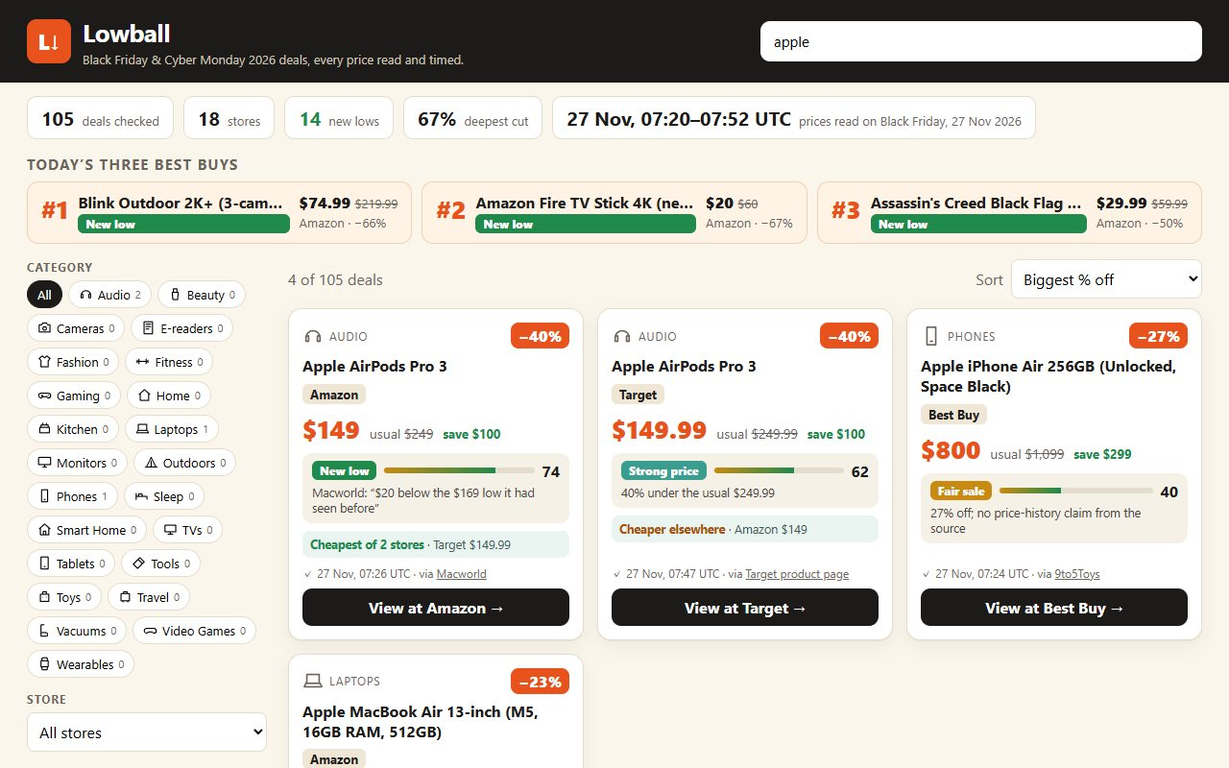
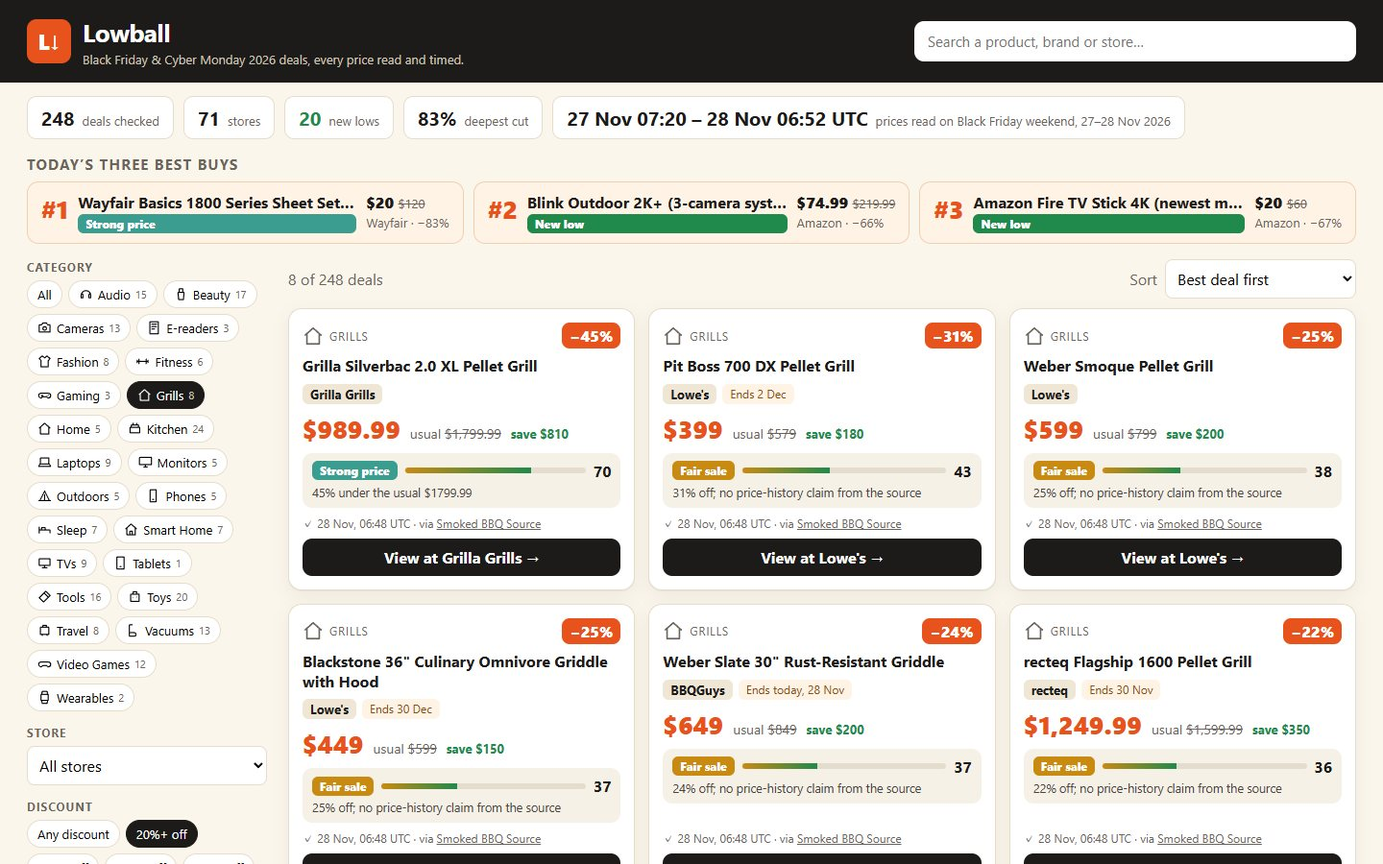
248 deals at 71 stores: 143 more read on Saturday 28 Nov, padded comparison prices flagged, two-day check range

diff --git a/app/js/deals-saturday.js b/app/js/deals-saturday.js
@@ -1,0 +1,210 @@
+// Saturday 28 November 2026: 143 more deals, read between 06:45 and 06:52 UTC on dated roundups (updated 27-28 Nov)
+// and store pages. Rows are compact: [product, brand, category, store, store link ('' when the source gave only its
+// own or a shortened link, so the card links to the source), sale price, usual price, source key, time read (UTC),
+// what the source said about the price's history, condition]. Where the usual price is the store's own comparison
+// value (Dell's "Estimated Value", Best Buy's "comparable value") the evidence says so, and the verdict marks it.
+
+const SOURCES = {
+  dell: ['https://www.dell.com/en-us/shop/deals', 'Dell deals page'],
+  dellLaptops: ['https://www.dell.com/en-us/shop/deals/laptop-deals', 'Dell laptop deals page'],
+  dellMonitors: ['https://www.dell.com/en-us/shop/deals/monitor-deals', 'Dell monitor deals page'],
+  bh: ['https://www.imaging-resource.com/deals/black-friday/bh-photo/', 'Imaging Resource'],
+  gearPatrol: ['https://www.gearpatrol.com/deals/best-black-friday-cyber-monday-weekend-sales-2026/', 'Gear Patrol'],
+  slickTv: ['https://daily.slickdeals.net/black-friday/the-best-black-friday-tv-deals-weve-spotted-so-far/', 'Slickdeals'],
+  toysYoga: ['https://9to5toys.com/2026/11/27/one-of-the-best-snapdragon-x2-plus-copilot-pc-black-friday-deals-at-700-off/', '9to5Toys'],
+  toysBestBuy: ['https://9to5toys.com/2026/11/27/best-buy-main-event-black-friday-sale-now-live/', '9to5Toys'],
+  toysWatch: ['https://9to5toys.com/2026/11/27/official-black-friday-apple-watch-deals/', '9to5Toys'],
+  pcGuide: ['https://www.pcguide.com/news/black-friday-deals-live-2026/', 'PC Guide'],
+  nbcVacuum: ['https://www.nbcnews.com/select/shopping/black-friday-vacuum-deals-2026-rcna610994', 'NBC Select'],
+  foodNetwork: ['https://www.foodnetwork.com/how-to/packages/shopping/sales-and-deals/best-black-friday-deals', 'Food Network'],
+  yahooHome: ['https://shopping.yahoo.com/deals/breaking-news/article/black-friday-home-deals-up-to-80-off-dyson-shark-ninja-ugg-and-more-123227868.html', 'Yahoo Shopping'],
+  popsciTools: ['https://www.popsci.com/gear/best-black-friday-power-tool-deals/', 'Popular Science'],
+  bbq: ['https://www.smokedbbqsource.com/black-friday-bbq-grill-deals/', 'Smoked BBQ Source'],
+  stonewars: ['https://stonewars.com/deals/lego-black-friday-2026/', 'Stonewars'],
+  nbcMain: ['https://www.nbcnews.com/select/shopping/best-black-friday-deals-11-27-2026-rcna611358', 'NBC Select'],
+  nbcUnder50: ['https://www.nbcnews.com/select/shopping/black-friday-2026-deals-under-50-rcna611475', 'NBC Select'],
+  toysGames: ['https://9to5toys.com/2026/11/27/ps5-switch-2-black-friday-game-deals-live/', '9to5Toys'],
+  nbcLuggage: ['https://www.nbcnews.com/select/shopping/black-friday-luggage-deals-2026-rcna610974', 'NBC Select'],
+};
+
+const DELL_EV = "Dell calls it the lowest price of the year, but the usual price is Dell's own comparison value";
+const DELL_CV = "usual price is Dell's own comparison value";
+const BBY_CV = "usual price is Best Buy's comparison value";
+
+const ROWS = [
+  // ---------------------------------------------------------------- laptops, monitors, phones, tablets
+  ['Dell 14S Laptop (Core 5 320, 8GB, 512GB SSD, 14" FHD+)', 'Dell', 'Laptops', 'Dell', 'https://www.dell.com/en-us/shop/laptop-computers/spd/dell14sds14270/ds14270_so_14', 499.99, 749.99, 'dell', '06:49', DELL_EV, ''],
+  ['Dell XPS 13 Laptop (Core 5 320, 8GB, 256GB SSD, 13.4" QHD+ touch)', 'Dell', 'Laptops', 'Dell', 'https://www.dell.com/en-us/shop/laptop-computers/spd/xps13dx13260/dx13260_so_42', 549.99, 749.99, 'dell', '06:49', DELL_EV, ''],
+  ['Dell 16 Plus Laptop (Core Ultra 7 258V, 32GB, 1TB SSD, 16" QHD+)', 'Dell', 'Laptops', 'Dell', 'https://www.dell.com/en-us/shop/laptop-computers/spd/dellplus16laptopdb16250/db16250_fixed_13', 1199.99, 2079.99, 'dellLaptops', '06:50', DELL_EV, ''],
+  ['Lenovo Yoga Slim 7x Copilot+ PC (Snapdragon X2 Plus, 16GB, 1TB, 2K touch)', 'Lenovo', 'Laptops', 'Lenovo', '', 799.99, 1500, 'toysYoga', '06:48', 'the lowest price we have tracked for this particular model', ''],
+  ['Dell 22 Monitor SE2225HM', 'Dell', 'Monitors', 'Dell', 'https://www.dell.com/en-us/shop/monitors/apd/dell-22-monitor-se2225hm/se2225hm/-', 49.99, 89.99, 'dellMonitors', '06:49', DELL_CV, ''],
+  ['Dell 24 240Hz Monitor SE2426HGS', 'Dell', 'Monitors', 'Dell', 'https://www.dell.com/en-us/shop/monitors/apd/dell-24-240hz-adjustable-stand-monitor-se2426hgs/se2426hgs/-', 99.99, 139.99, 'dellMonitors', '06:49', DELL_CV, 'Half off this monitor with any PC purchase'],
+  ['Alienware 32 4K OLED Gaming Monitor AW3226Q', 'Alienware', 'Monitors', 'Dell', 'https://www.dell.com/en-us/shop/monitors/apd/alienware-32-4k-oled-gaming-monitor-aw3226q/aw3226q_monitor/-', 549.99, 699.99, 'dellMonitors', '06:49', DELL_CV, ''],
+  ['Alienware 39 5K OLED Gaming Monitor AW3926QW', 'Alienware', 'Monitors', 'Dell', 'https://www.dell.com/en-us/shop/monitors/apd/alienware-39-5k-oled-gaming-monitor-aw3926qw/aw3926qw/-', 999.99, 1099.99, 'dellMonitors', '06:49', DELL_CV, ''],
+  ['Apple iPhone Air 256GB', 'Apple', 'Phones', 'Best Buy', '', 800, 1099, 'toysBestBuy', '06:48', '', ''],
+  ['Apple Watch Series 12 42mm GPS', 'Apple', 'Wearables', 'Amazon', '', 299, 399, 'toysWatch', '06:52', 'All-time low', ''],
+  ['Nintendo Switch 2 + Mario Kart World bundle', 'Nintendo', 'Gaming', 'Amazon', 'https://www.amazon.com/dp/B0HGHB3V16', 499, 549.99, 'pcGuide', '06:45', '', ''],
+  ['Google Home Speaker (2026)', 'Google', 'Smart Home', 'Best Buy', '', 80, 100, 'toysBestBuy', '06:48', 'All-time low', ''],
+
+  // ---------------------------------------------------------------- TVs
+  ['Hisense 100" QD7 Hi-QLED 4K TV', 'Hisense', 'TVs', 'Costco', 'https://slickdeals.net/f/20194830', 999.99, 1699.99, 'slickTv', '06:51', '', 'Costco membership; through 30 Nov'],
+  ['Samsung 70" U8000H 4K TV', 'Samsung', 'TVs', "Sam's Club", 'https://slickdeals.net/f/20223603', 367.99, 397.99, 'slickTv', '06:51', '', "Sam's Club member price"],
+  ['Hisense 65" UR8 RGB Mini-LED TV', 'Hisense', 'TVs', 'Best Buy', 'https://slickdeals.net/f/20317722', 899.99, 1999.99, 'slickTv', '06:51', BBY_CV, ''],
+  ['LG 77" B6E OLED TV', 'LG', 'TVs', 'Best Buy', 'https://slickdeals.net/f/20276079', 1499.99, 2699.99, 'slickTv', '06:51', BBY_CV, ''],
+
+  // ---------------------------------------------------------------- cameras at B&H
+  ['Nikon Z5 Mirrorless Camera, Basic Bundle', 'Nikon', 'Cameras', 'B&H Photo', 'https://www.bhphotovideo.com/c/product/1735896-REG/nikon_z5_mirrorless_camera_with.html', 796.95, 1450.95, 'bh', '06:50', '', ''],
+  ['Canon EOS RP Mirrorless Camera', 'Canon', 'Cameras', 'B&H Photo', 'https://www.bhphotovideo.com/c/product/1459282-REG/canon_eos_rp_mirrorless_digital.html', 699, 1149, 'bh', '06:50', '', ''],
+  ['Nikon D7500 DSLR with 18-140mm Lens', 'Nikon', 'Cameras', 'B&H Photo', 'https://www.bhphotovideo.com/c/product/1333200-REG/nikon_d7500_dslr_camera_with.html', 996.95, 1496.95, 'bh', '06:50', '', ''],
+  ['Panasonic LUMIX GH5 II Mirrorless Camera', 'Panasonic', 'Cameras', 'B&H Photo', 'https://www.bhphotovideo.com/c/product/1639337-REG/panasonic_dc_gh5m2body_lumix_gh5_ii_mirrorless.html', 997.99, 1497.99, 'bh', '06:50', '', ''],
+  ['Sony a7 III Mirrorless Camera', 'Sony', 'Cameras', 'B&H Photo', 'https://www.bhphotovideo.com/c/product/1394217-REG/sony_ilce_7m3_alpha_a7_iii_mirrorless.html', 1398, 1998, 'bh', '06:50', '', ''],
+  ['Canon EOS R5 Mirrorless Camera', 'Canon', 'Cameras', 'B&H Photo', 'https://www.bhphotovideo.com/c/product/1547009-REG/canon_4147c002_eos_r5_mirrorless_camera.html', 2399, 3299, 'bh', '06:50', '', ''],
+  ['Nikon Z8 Mirrorless Camera', 'Nikon', 'Cameras', 'B&H Photo', 'https://www.bhphotovideo.com/c/product/1765622-REG/nikon_z8_mirrorless_camera.html', 3196.95, 4296.95, 'bh', '06:50', '', 'Ends Sun 29 Nov, 11:59pm ET'],
+  ['Nikon Z6 III Mirrorless Camera', 'Nikon', 'Cameras', 'B&H Photo', 'https://www.bhphotovideo.com/c/product/1834803-REG/nikon_z6_iii_mirrorless_camera.html', 1996.95, 2696.95, 'bh', '06:50', '', ''],
+  ['Panasonic LUMIX G9 II Mirrorless Camera', 'Panasonic', 'Cameras', 'B&H Photo', 'https://www.bhphotovideo.com/c/product/1945155-REG/panasonic_dc_g9m2body9_lumix_g9_ii_mirrorless.html', 1397.99, 1897.99, 'bh', '06:50', '', ''],
+  ['Panasonic LUMIX S9 with 18-40mm Lens', 'Panasonic', 'Cameras', 'B&H Photo', 'https://www.bhphotovideo.com/c/product/1944584-REG/panasonic_dc_s9nsb9_lumix_s9_mirrorless_camera.html', 1347.99, 1797.99, 'bh', '06:50', '', 'Black/Silver'],
+  ['Panasonic LUMIX G97 with 12-60mm Lens', 'Panasonic', 'Cameras', 'B&H Photo', 'https://www.bhphotovideo.com/c/product/1936326-REG/panasonic_dc_g97mk9_panasonic_lumix_g97_mirrorless.html', 547.99, 847.99, 'bh', '06:50', '', ''],
+  ['Nikon NIKKOR Z 28-400mm f/4-8 VR Lens', 'Nikon', 'Cameras', 'B&H Photo', 'https://www.bhphotovideo.com/c/product/1818948-REG/nikon_nikkor_z_28_400mm_f_4_8.html', 996.95, 1446.95, 'bh', '06:50', '', ''],
+  ['SanDisk 128GB Extreme PRO UHS-II SDXC Card', 'SanDisk', 'Cameras', 'B&H Photo', 'https://www.bhphotovideo.com/c/product/1965475-REG/sandisk_sdsdxde_128g_gn4in_128gb_extreme_pro_uhs_ii.html', 229.99, 418.99, 'bh', '06:50', '', ''],
+
+  // ---------------------------------------------------------------- audio at the makers' own stores
+  ['Sonos Play portable speaker', 'Sonos', 'Audio', 'Sonos', 'https://www.sonos.com/en-us/shop/sonos-play', 239, 299, 'gearPatrol', '06:47', '', ''],
+  ['Sonos Five', 'Sonos', 'Audio', 'Sonos', 'https://www.sonos.com/en-us/shop/five.html', 439, 599, 'gearPatrol', '06:47', '', ''],
+  ['Sonos Arc Ultra soundbar', 'Sonos', 'Audio', 'Sonos', 'https://www.sonos.com/en-us/shop/arc-ultra', 849, 1099, 'gearPatrol', '06:47', '', ''],
+  ['Sonos Era 300', 'Sonos', 'Audio', 'Sonos', 'https://www.sonos.com/en-us/shop/era-300', 399, 449, 'gearPatrol', '06:47', '', ''],
+  ['Audioengine A2+ Gen 3 wireless speakers', 'Audioengine', 'Audio', 'Audioengine', 'https://audioengine.com/shop/wirelessspeakers/a2-wireless-computer-speakers/', 233, 299, 'gearPatrol', '06:47', '', ''],
+  ['Bose Lifestyle Ultra Speaker', 'Bose', 'Audio', 'Bose', 'https://www.bose.com/p/speakers/bose-lifestyle-ultra-speaker/LSULT-SPEAKERWIRELESS.html', 299, 349, 'gearPatrol', '06:47', '', ''],
+  ['KEF LS50 Wireless II', 'KEF', 'Audio', 'KEF', 'https://us.kef.com/products/ls50-wireless-2', 2199, 2999, 'gearPatrol', '06:47', '', ''],
+  ['KEF Q1 Meta bookshelf speakers', 'KEF', 'Audio', 'KEF', 'https://us.kef.com/products/q1-meta', 400, 700, 'gearPatrol', '06:47', '', ''],
+  ['Klipsch The Fives II powered speakers', 'Klipsch', 'Audio', 'Klipsch', 'https://www.klipsch.com/products/the-fives-ii-powered-speakers', 900, 1400, 'gearPatrol', '06:47', '', ''],
+  ['Klipsch The Nines II powered speakers', 'Klipsch', 'Audio', 'Klipsch', 'https://www.klipsch.com/products/the-nines-ii-powered-speakers', 1550, 2400, 'gearPatrol', '06:47', '', ''],
+  ['JBL Flip 7 Bluetooth speaker', 'JBL', 'Audio', 'JBL', 'https://www.jbl.com/bluetooth-speakers/FLIP-7.html', 100, 150, 'gearPatrol', '06:47', '', ''],
+  ['Marshall Stanmore III Bluetooth Home Speaker', 'Marshall', 'Audio', 'Best Buy', '', 250, 400, 'toysBestBuy', '06:48', '', ''],
+
+  // ---------------------------------------------------------------- vacuums
+  ['Shark Pet Cordless Stick Vacuum IX141', 'Shark', 'Vacuums', 'Home Depot', 'https://www.homedepot.com/p/Shark-Pet-Bagless-Cordless-Washable-Filter-Stick-Vacuum-XL-Dust-Cup-LED-Lights-Removable-Handheld-40min-Runtime-in-Gray-IX141/313118436', 169, 299, 'nbcVacuum', '06:45', '', ''],
+  ['Dyson V15 Detect Cordless Pet Stick Vacuum', 'Dyson', 'Vacuums', "Lowe's", 'https://www.lowes.com/pd/Dyson-V15-Cordless-Pet-Stick-Vacuum-Convertible-To-Handheld/5014724771', 599.99, 849.99, 'nbcVacuum', '06:45', '', ''],
+  ['Roborock Q7 M5+ Robot Vacuum and Mop', 'Roborock', 'Vacuums', 'Roborock', 'https://us.roborock.com/products/roborock-q7-m5-plus', 199.99, 429.99, 'nbcVacuum', '06:45', 'lowest price ever', ''],
+  ['Levoit LVAC-200 Cordless Vacuum', 'Levoit', 'Vacuums', 'Levoit', 'https://levoit.com/collections/vacuums/products/lvac-200-cordless-vacuum', 139.99, 199.99, 'nbcVacuum', '06:45', '', ''],
+  ['Tineco Floor One S7 Stretch Ultra Wet/Dry Vacuum', 'Tineco', 'Vacuums', 'Tineco', 'https://store.tineco.com/products/tineco-floor-one-s7-stretch-ultra-cordless-wet-dry-vacuum-cleaner?variant=42055975305300', 299, 599, 'nbcVacuum', '06:45', '', ''],
+  ['Bissell PowerClean FurGuard Pet Cordless Stick Vacuum', 'Bissell', 'Vacuums', 'Bissell', 'https://www.bissell.com/en-us/product/powerclean-furguard-cordless-stick-vacuum-4039.html', 189.99, 299.99, 'nbcVacuum', '06:45', '', ''],
+  ['Shark Rocket Ultra-Light Corded Stick Vacuum HV301', 'Shark', 'Vacuums', 'Chewy', 'https://www.chewy.com/shark-hv301-rocket-ultra-light-weight/dp/1351038', 99.99, 199.99, 'nbcVacuum', '06:45', '', ''],
+  ['Shark Vertex Pro Cordless Vacuum', 'Shark', 'Vacuums', 'Amazon', 'https://www.amazon.com/dp/B098RH3LTB', 249.99, 379.99, 'nbcVacuum', '06:45', '', ''],
+
+  // ---------------------------------------------------------------- kitchen
+  ['Vitamix Explorian 2.0 Blender with accessories', 'Vitamix', 'Kitchen', 'QVC', 'https://www.qvc.com/vitamix-explorian-20-variable-speed-blender-w-accessories.product.K92777.html', 279.98, 379, 'foodNetwork', '06:47', '', ''],
+  ['Made In 3-Piece Olive Wood Knife Set', 'Made In', 'Kitchen', 'Made In', 'https://madeincookware.com/products/the-knife-set/olive-wood', 329.99, 477, 'foodNetwork', '06:47', '', ''],
+  ['Caraway Ceramic Cookware Set', 'Caraway', 'Kitchen', 'Caraway', 'https://www.carawayhome.com/products/cookware-sets/?color=cream', 356, 675, 'foodNetwork', '06:47', '', 'Cream'],
+  ['Le Creuset Heritage 4-Qt Round Oven', 'Le Creuset', 'Kitchen', 'QVC', 'https://www.qvc.com/le-creuset-heritage-4-qt-enameled-cast-iron-round-oven-w-lid.product.K314055.html', 169.98, 302, 'foodNetwork', '06:47', '', ''],
+  ['Le Creuset Signature Sauteuse, 3.5 qt', 'Le Creuset', 'Kitchen', 'Le Creuset', 'https://www.lecreuset.com/signature-sauteuse-3-1-2-qt/21198US.html', 250, 375, 'yahooHome', '06:47', '', ''],
+  ['GreenPan Valencia Pro 3-Frypan Set (8/9.5/11")', 'GreenPan', 'Kitchen', 'GreenPan', 'https://www.greenpan.us/collections/valencia/products/valencia-pro-ceramic-nonstick-8-9-5-and-11-frypan-set-gray-1', 99.99, 259.99, 'foodNetwork', '06:47', '', ''],
+  ['Rachael Ray Cucina 10-Piece Bakeware Set', 'Rachael Ray', 'Kitchen', 'Wayfair', 'https://www.wayfair.com/kitchen-tabletop/pdp/rachael-ray-cucina-nonstick-bakeware-baking-pans-set-10-piece-latte-brown-and-cranberry-red-rry3568.html', 134.99, 220, 'foodNetwork', '06:47', '', ''],
+  ['Staub Sesame 3-Piece Baking Dish Set', 'Staub', 'Kitchen', 'Crate & Barrel', 'https://www.crateandbarrel.com/staub-sesame-3-piece-rectangular-baking-dish-set/s524503', 99, 190, 'foodNetwork', '06:47', '', ''],
+  ['KitchenAid Artisan Stand Mixer', 'KitchenAid', 'Kitchen', 'Williams Sonoma', 'https://www.williams-sonoma.com/products/kitchenaid-artisan-stand-mixer/', 349.95, 449.95, 'foodNetwork', '06:47', '', ''],
+  ['GE Profile Opal 2.0 Ultra Nugget Ice Maker', 'GE Profile', 'Kitchen', 'GE Appliances', 'https://www.geappliances.com/appliance/GE-Profile-Opal-2-0-Ultra-Nugget-Ice-Maker-with-Scale-Inhibiting-Filter-XPIO23SWSS', 349, 449, 'foodNetwork', '06:47', '', ''],
+  ['Cuisinart Custom 14-Cup Food Processor', 'Cuisinart', 'Kitchen', 'Crate & Barrel', 'https://www.crateandbarrel.com/cuisinart-custom-14-stainless-steel-14-cup-food-processor/s146663', 199.95, 299.95, 'foodNetwork', '06:47', '', ''],
+  ['Zwilling Four Star 7-Piece Knife Block Set', 'Zwilling', 'Kitchen', 'Williams Sonoma', 'https://www.williams-sonoma.com/products/zwilling-four-star-eco-knife-block-natural-birch-set-of-7', 199.95, 399.95, 'foodNetwork', '06:47', '', ''],
+  ['Lenox Spice Village 24-Piece Jar Collection', 'Lenox', 'Kitchen', "Macy's", 'https://www.macys.com/shop/product/lenox-spice-village-24-pc.-jar-collection-firstmacys?ID=19236529', 208.99, 299, 'foodNetwork', '06:47', '', ''],
+
+  // ---------------------------------------------------------------- sleep and home
+  ['Wayfair Basics 1800 Series Sheet Set, Queen', 'Wayfair Basics', 'Sleep', 'Wayfair', 'https://www.wayfair.com/bed-bath/pdp/wayfair-basics-1800-series-sheet-set-wfbs1741.html', 20, 120, 'yahooHome', '06:47', '', ''],
+  ['Cozy Earth Bamboo Sheet Set, Queen', 'Cozy Earth', 'Sleep', 'Cozy Earth', 'https://cozyearth.com/products/bamboo-sheet-set?variant=42387774275764', 194, 324, 'yahooHome', '06:47', '', ''],
+  ['Brooklinen All-Season Down Alternative Comforter, Queen', 'Brooklinen', 'Sleep', 'Brooklinen', 'https://www.brooklinen.com/products/down-alternative-comforter?variant=42723524214874', 217, 289, 'yahooHome', '06:47', '', ''],
+  ['Nectar Classic Memory Foam Mattress, Queen', 'Nectar', 'Sleep', 'Nectar', 'https://www.nectarsleep.com/mattress', 699, 1567, 'yahooHome', '06:47', '', ''],
+  ['Cocoon by Sealy Chill Mattress, Queen', 'Cocoon by Sealy', 'Sleep', 'Cocoon by Sealy', 'https://www.cocoonbysealy.com/mattress/the-chill-mattress/v/126/', 597, 919, 'yahooHome', '06:47', '', 'Code Cocoon35'],
+  ['Bear Elite Hybrid Mattress, Queen', 'Bear', 'Sleep', 'Bear', 'https://www.bearmattress.com/products/elite-hybrid-mattress', 1671, 2570, 'yahooHome', '06:47', '', 'Code BF35'],
+  ['Lola Blankets Faux Fur Original Blanket (Creamy Cloud)', 'Lola Blankets', 'Home', 'Lola Blankets', 'https://lolablankets.com/products/creamy-cloud?variant=41683293438123', 163, 325, 'yahooHome', '06:47', '', 'Code BF50'],
+  ['HaiiMeid Van Gogh Abstract Area Rug, 8 x 10 ft', 'HaiiMeid', 'Home', 'Home Depot', 'https://www.homedepot.com/p/HaiiMeid-Van-Gogh-8-ft-x-10-ft-Beige-Grey-Modern-Abstract-Area-Rug-X24IU0057H-281/333291096', 119, 227, 'yahooHome', '06:47', '', ''],
+  ['Teko Hover Scrubber Cordless Mop', 'Teko', 'Home', 'QVC', 'https://www.qvc.com/p/teko-hover-scrubber-electric-indooroutdoor-cordless-mop/V90537', 50, 75, 'yahooHome', '06:47', '', ''],
+
+  // ---------------------------------------------------------------- tools
+  ['DeWalt Atomic 20V Max 2-Tool Combo Kit (DCK225D2)', 'DeWalt', 'Tools', 'Home Depot', 'https://www.homedepot.com/p/322138483', 149, 249, 'popsciTools', '06:46', '', ''],
+  ['Milwaukee M18 Brushless 1/2" Compact Drill Kit (3601-21P)', 'Milwaukee', 'Tools', 'Home Depot', 'https://www.homedepot.com/p/325479354', 99, 199, 'popsciTools', '06:46', '', ''],
+  ['Milwaukee M18 9-Tool Combo Kit (3692-29)', 'Milwaukee', 'Tools', 'Home Depot', 'https://www.homedepot.com/p/343077421', 699, 1389, 'popsciTools', '06:46', '', ''],
+  ['Ryobi ONE+ 18V 6-Tool Combo Kit (PCL1600K2)', 'Ryobi', 'Tools', 'Home Depot', 'https://www.homedepot.com/p/317987591', 199, 299, 'popsciTools', '06:46', '', ''],
+  ['Husky 310-Piece Mechanics Tool Set (H310MTS)', 'Husky', 'Tools', 'Home Depot', 'https://www.homedepot.com/p/341370940', 99, 199, 'popsciTools', '06:46', '', ''],
+  ['Bosch 50-ft Self-Leveling Cross-Line Laser (GLL50-20)', 'Bosch', 'Tools', 'Home Depot', 'https://www.homedepot.com/p/327671498', 49.97, 95, 'popsciTools', '06:46', '', ''],
+  ['Kobalt 24V Brushless Drill and Impact Driver Kit', 'Kobalt', 'Tools', "Lowe's", 'https://www.lowes.com/pd/Kobalt-2-Tool-Brushless-Power-Tool-Combo-Kit-1-Batteries-Included-and-Charger-Included/5019790397', 79, 149, 'popsciTools', '06:46', '', ''],
+  ['DeWalt 12" Double-Bevel Sliding Miter Saw (DWS780)', 'DeWalt', 'Tools', "Lowe's", 'https://www.lowes.com/pd/DEWALT-12-in-15-Amps-Amp-Dual-Bevel-Sliding-Compound-Corded-Miter-Saw/5013817811', 399, 649, 'popsciTools', '06:46', '', ''],
+  ['Craftsman Versastack 242-Piece Mechanics Tool Set', 'Craftsman', 'Tools', "Lowe's", 'https://www.lowes.com/pd/CRAFTSMAN-24Pc-VERSASTACK-Mechanics-Tool-Set/5016365155', 99, 229, 'popsciTools', '06:46', '', ''],
+  ['Shop-Vac 16-Gallon 6.5 HP Wet/Dry Vacuum', 'Shop-Vac', 'Tools', "Lowe's", 'https://www.lowes.com/pd/Shop-Vac-16-Gallon-Corded-Portable-Wet-Dry-Shop-Vacuum/5013296515', 69.98, 139, 'popsciTools', '06:46', '', ''],
+  ['Kobalt 46" 9-Drawer Rolling Workbench', 'Kobalt', 'Tools', "Lowe's", 'https://www.lowes.com/pd/Kobalt-46-1-in-L-x-37-2-in-H-9-Drawers-Rolling-Black-Wood-Work-Bench/5013467719', 298, 498, 'popsciTools', '06:46', '', ''],
+  ['Bosch Profactor 18V 12" Glide Miter Saw (tool only)', 'Bosch', 'Tools', "Lowe's", 'https://www.lowes.com/pd/Bosch-PROFACTOR-18V-Surgeon-12-In-Dual-Bevel-Glide-Miter-Saw-Bare-Tool/5001905741', 479.99, 849, 'popsciTools', '06:46', '', ''],
+
+  // ---------------------------------------------------------------- grills, griddles, pizza ovens, fire pits
+  ['Pit Boss 700 DX Pellet Grill', 'Pit Boss', 'Grills', "Lowe's", '', 399, 579, 'bbq', '06:48', '', 'Ends 2 Dec'],
+  ['Traeger Woodridge Pro Pellet Grill', 'Traeger', 'Grills', "Lowe's", '', 999, 1149.99, 'bbq', '06:48', '', ''],
+  ['Weber Smoque Pellet Grill', 'Weber', 'Grills', "Lowe's", '', 599, 799, 'bbq', '06:48', '', ''],
+  ['Weber Genesis E-315 Gas Grill', 'Weber', 'Grills', "Lowe's", '', 799, 899, 'bbq', '06:48', '', 'Ends 2 Dec'],
+  ['Blackstone 36" Culinary Omnivore Griddle with Hood', 'Blackstone', 'Grills', "Lowe's", '', 449, 599, 'bbq', '06:48', '', 'Ends 30 Dec'],
+  ['Blackstone 36" Griddle Starter Bundle', 'Blackstone', 'Grills', 'Blackstone', 'https://blackstoneproducts.com/products/36-starter-bundle', 549, 688.98, 'foodNetwork', '06:47', '', ''],
+  ['recteq Flagship 1600 Pellet Grill', 'recteq', 'Grills', 'recteq', '', 1249.99, 1599.99, 'bbq', '06:48', '', 'Ends 30 Nov'],
+  ['Grilla Silverbac 2.0 XL Pellet Grill', 'Grilla', 'Grills', 'Grilla Grills', 'https://www.grillagrills.com/product/4001313', 989.99, 1799.99, 'bbq', '06:48', '', ''],
+  ['Traeger Flatrock 3-Burner Griddle', 'Traeger', 'Grills', 'Ace Hardware', '', 799, 999.99, 'bbq', '06:48', '', ''],
+  ['Weber Slate 30" Rust-Resistant Griddle', 'Weber', 'Grills', 'BBQGuys', 'https://www.bbqguys.com/i/3193451/weber-grills/slate-30-rust-resistant-griddle', 649, 849, 'bbq', '06:48', '', 'Ends today, 28 Nov'],
+  ['Kamado Joe Classic Joe II 18" Ceramic Grill', 'Kamado Joe', 'Grills', 'Amazon', '', 1249, 1499.99, 'bbq', '06:48', 'at a 30-day low on Amazon', ''],
+  ['Ooni Karu 12 Multi-Fuel Pizza Oven', 'Ooni', 'Outdoors', 'Ooni', 'https://ooni.com/products/ooni-karu', 249, 349, 'foodNetwork', '06:47', '', ''],
+  ['Ooni Koda 12 Propane Pizza Oven', 'Ooni', 'Outdoors', "Lowe's", '', 300.3, 429, 'bbq', '06:48', '', 'Ends 30 Nov'],
+  ['Gozney Roccbox Pizza Oven', 'Gozney', 'Outdoors', 'Gozney', 'https://us.gozney.com/products/roccbox', 399.99, 499.99, 'bbq', '06:48', '', ''],
+  ['Solo Stove Pi Prime Propane Pizza Oven', 'Solo Stove', 'Outdoors', 'Amazon', '', 299.99, 399.99, 'bbq', '06:48', 'at its lowest price in a year on Amazon', ''],
+  ['Solo Stove Bonfire 19.5" Fire Pit with Stand', 'Solo Stove', 'Outdoors', 'Amazon', '', 282.14, 349.99, 'bbq', '06:48', 'at a 90-day low on Amazon', ''],
+
+  // ---------------------------------------------------------------- LEGO and toys
+  ['LEGO Star Wars Wicket the Ewok (75430)', 'LEGO', 'Toys', 'LEGO', '', 103.99, 129.99, 'stonewars', '06:46', '', 'While supplies last'],
+  ['LEGO Icons Flower Arrangement (10345)', 'LEGO', 'Toys', 'LEGO', '', 76.99, 109.99, 'stonewars', '06:46', '', 'While supplies last'],
+  ['LEGO Harry Potter Diagon Alley Wizarding Shops (76444)', 'LEGO', 'Toys', 'LEGO', '', 159.99, 199.99, 'stonewars', '06:46', '', 'While supplies last'],
+  ['LEGO Star Wars AT-ST Walker (75417)', 'LEGO', 'Toys', 'LEGO', '', 159.99, 199.99, 'stonewars', '06:46', '', 'While supplies last'],
+  ['LEGO Williams Racing FW14B & Nigel Mansell (10353)', 'LEGO', 'Toys', 'LEGO', '', 47.99, 79.99, 'stonewars', '06:46', '', 'While supplies last'],
+  ["LEGO Bluey's Family House with Memory Game (10459)", 'LEGO', 'Toys', 'LEGO', '', 41.99, 69.99, 'stonewars', '06:46', '', 'While supplies last'],
+  ['LEGO Disney Kakamora Barge (43258)', 'LEGO', 'Toys', 'LEGO', '', 59.99, 99.99, 'stonewars', '06:46', '', 'While supplies last'],
+  ['LEGO Technic Volvo L120 Electric Wheel Loader (42209)', 'LEGO', 'Toys', 'LEGO', '', 71.99, 119.99, 'stonewars', '06:46', '', 'While supplies last'],
+  ['LEGO Harry Potter Enchanted Flying Ford Anglia (76470)', 'LEGO', 'Toys', 'LEGO', '', 55.99, 79.99, 'stonewars', '06:46', '', 'While supplies last'],
+  ['Toniebox 2 Starter Set (Bluey)', 'Tonies', 'Toys', "Macy's", 'https://www.macys.com/shop/product/tonies-bluey-toniebox-2-screen-free-interactive-starter-set-ages-1?ID=27115185', 99.99, 149.99, 'nbcMain', '06:48', '', ''],
+  ['PicassoTiles 100-Piece Magnetic Tiles', 'PicassoTiles', 'Toys', 'Amazon', 'https://www.amazon.com/dp/B00AU56C5W', 27.99, 39.99, 'nbcUnder50', '06:48', '', ''],
+  ['3Doodler Start+ Essentials 3D Pen Set', '3Doodler', 'Toys', 'Amazon', 'https://www.amazon.com/dp/B086JQQHPK', 39.99, 52.81, 'nbcUnder50', '06:48', '', ''],
+
+  // ---------------------------------------------------------------- video games
+  ["Assassin's Creed Black Flag Resynced (PS5)", 'Ubisoft', 'Video Games', 'Amazon', 'https://www.amazon.com/dp/B0GY5YZC4P', 30, 60, 'toysGames', '06:46', 'All-time low', ''],
+  ['Donkey Kong Bananza (Switch 2)', 'Nintendo', 'Video Games', 'Amazon', '', 49, 70, 'toysGames', '06:46', '', ''],
+  ['Metroid Prime 4: Beyond, Switch 2 Edition', 'Nintendo', 'Video Games', 'Amazon', '', 49, 70, 'toysGames', '06:46', '', ''],
+  ['Kirby Air Riders (Switch 2)', 'Nintendo', 'Video Games', 'Amazon', '', 50, 70, 'toysGames', '06:46', '', ''],
+  ["Marvel's Spider-Man 2 (PS5)", 'Sony', 'Video Games', 'Amazon', 'https://www.amazon.com/dp/B0C7WQRCPB', 30, 70, 'toysGames', '06:46', '', ''],
+  ["Ghost of Tsushima Director's Cut (PS5)", 'Sony', 'Video Games', 'Amazon', 'https://www.amazon.com/dp/B098G34GBT', 30, 70, 'toysGames', '06:46', '', ''],
+
+  // ---------------------------------------------------------------- travel
+  ['Away The Carry-On Hardside Spinner', 'Away', 'Travel', 'Away', 'https://www.awaytravel.com/products/carry-on-coast-blue', 206, 275, 'nbcLuggage', '06:47', '', 'Coast Blue'],
+  ['Away The Large Checked 29" Spinner', 'Away', 'Travel', 'Away', 'https://www.awaytravel.com/products/large-blush-pink', 281, 375, 'nbcLuggage', '06:47', '', 'Blush Pink'],
+  ['Travelpro Maxlite 5 International Carry-On Spinner', 'Travelpro', 'Travel', 'Travelpro', 'https://travelpro.com/products/maxlite%C2%AE-5-international-expandable-carry-on-spinner', 110, 160, 'nbcLuggage', '06:47', '', ''],
+  ['SwissGear Sion Reserve Medium Checked Spinner', 'SwissGear', 'Travel', 'SwissGear', 'https://www.swissgear.com/products/sion-reserve-medium-checked-spinner', 82.5, 165, 'nbcLuggage', '06:47', '', ''],
+  ['adidas Defender 5 Medium Duffel Bag', 'adidas', 'Travel', 'adidas', 'https://www.adidas.com/us/defender-5-medium-duffel-bag/JJ7406.html', 40, 50, 'nbcLuggage', '06:47', '', ''],
+  ['The North Face Recon Laptop Backpack', 'The North Face', 'Travel', 'REI', 'https://www.rei.com/product/236583/the-north-face-recon-pack-mens', 87.49, 125, 'nbcLuggage', '06:47', '', ''],
+  ['Samsonite Hardside Carry-On', 'Samsonite', 'Travel', 'Amazon', 'https://www.amazon.com/dp/B0B31NVLGQ', 103, 219.99, 'nbcLuggage', '06:47', '', ''],
+
+  // ---------------------------------------------------------------- fashion and fitness
+  ["Ugg Women's Tazz II", 'Ugg', 'Fashion', 'Ugg', 'https://www.ugg.com/women-slippers/tazz-ii/1174471.html', 99.99, 150, 'nbcUnder50', '06:48', '', 'Deal of the Day'],
+  ['Ugg Classic Micro', 'Ugg', 'Fashion', 'Ugg', 'https://www.ugg.com/women-boots/classic-micro/1173891.html?dwvar_1173891_color=CHE', 97.99, 140, 'nbcMain', '06:48', '', 'Chestnut'],
+  ["Bombas Women's Ankle Socks 4-Pack", 'Bombas', 'Fashion', 'Bombas', 'https://bombas.com/products/women-s-solid-ankle-four-pack?variant=neutrals&size=m', 37.8, 56, 'nbcUnder50', '06:48', '', 'Sitewide sale through 2 Dec'],
+  ["Lands' End 5-Pocket Canvas Tote, Medium", "Lands' End", 'Fashion', "Lands' End", 'https://www.landsend.com/products/canvas-pocket-tote/id_299717', 29.56, 39.95, 'nbcUnder50', '06:48', '', 'Code BELIEVE'],
+  ['Standard Baggu (Mercado)', 'Baggu', 'Fashion', 'Baggu', 'https://baggu.com/products/standard-baggu-mercado', 12, 16, 'nbcUnder50', '06:48', '', 'Discount applied at checkout'],
+  ['Alo Accolade Crew Neck Pullover', 'Alo', 'Fashion', 'Alo', 'https://www.aloyoga.com/products/u3031rg-accolade-crew-neck-pullover-espresso?variant=43766268592308', 96, 138, 'nbcMain', '06:48', '', 'Espresso'],
+  ["Hoka Women's Arahi 8 Running Shoes", 'Hoka', 'Fitness', "Dick's Sporting Goods", 'https://www.dickssportinggoods.com/p/hoka-womens-arahi-8-running-shoes-25fhqwrh8whtwhtxxftw/25fhqwrh8whtwhtxxftw?sku=27431390', 119.99, 149.99, 'nbcMain', '06:48', '', ''],
+  ['Theragun Mini (3rd Gen)', 'Therabody', 'Fitness', 'Nordstrom', 'https://www.nordstrom.com/s/therabody-theragun-mini-3rd-gen-massage-device/8666580', 154.99, 219.99, 'nbcMain', '06:48', '', ''],
+  ['Oura Ring 5 (Silver)', 'Oura', 'Fitness', 'Ulta', 'https://www.ulta.com/p/oura-ring-5-silver-pimprod2063171?sku=2664669', 299, 399, 'nbcMain', '06:48', '', 'Through 30 Nov'],
+
+  // ---------------------------------------------------------------- beauty
+  ['Laneige Lip Sleeping Mask', 'Laneige', 'Beauty', 'Sephora', 'https://www.sephora.com/product/lip-sleeping-mask-P420652', 18, 24, 'nbcUnder50', '06:48', '', ''],
+  ['Charlotte Tilbury Lip Cheat Liner, Pillow Talk', 'Charlotte Tilbury', 'Beauty', 'Sephora', 'https://www.sephora.com/product/lip-cheat-lip-liner-P433516', 19.6, 28, 'nbcMain', '06:48', '', ''],
+  ['Medicube Zero Pore Pad 2.0', 'Medicube', 'Beauty', 'Ulta', 'https://www.ulta.com/p/zero-pore-pad-pimprod2053434?sku=264535', 15.75, 21, 'nbcUnder50', '06:48', '', 'Ulta sale ends today, 28 Nov'],
+  ['Olaplex No.7 Bonding Hair Oil', 'Olaplex', 'Beauty', 'Ulta', 'https://www.ulta.com/p/no7-bonding-hair-oil-pimprod2029354?sku=2591018', 22.4, 32, 'nbcMain', '06:48', '', 'Ulta sale ends today, 28 Nov'],
+  ['Grace & Stella Under-Eye Masks, 24 pairs (Gold)', 'Grace & Stella', 'Beauty', 'Grace & Stella', 'https://www.graceandstella.com/products/feel-good-under-eye-masks', 18.95, 26, 'nbcUnder50', '06:48', '', ''],
+  ['Topicals Faded Under Eye Masks, set of 6', 'Topicals', 'Beauty', 'Topicals', 'https://mytopicals.com/products/faded-under-eye-masks', 17.6, 22, 'nbcUnder50', '06:48', '', ''],
+  ['Biodance Bio-Collagen Real Deep Mask', 'Biodance', 'Beauty', "Kohl's", 'https://www.kohls.com/product/prd-7810360/biodance-bio-collagen-real-deep-mask-for-pore-minimizing-firming-care.jsp', 15.2, 19, 'nbcUnder50', '06:48', '', ''],
+  ['Salt & Stone Body Wash', 'Salt & Stone', 'Beauty', 'Salt & Stone', 'https://www.saltandstone.com/products/body-wash?variant=44179095093498', 28.8, 36, 'nbcUnder50', '06:48', '', ''],
+  ['Jolie Filtered Showerhead', 'Jolie', 'Beauty', 'Jolie', 'https://jolieskinco.com/products/the-jolie-showerhead?variant=41313550893213', 127, 169, 'nbcMain', '06:48', '', ''],
+  ['Oral-B iO3 Electric Toothbrush', 'Oral-B', 'Beauty', 'Oral-B', 'https://oralb.com/en-us/products/oral-b-io-series-3-clean-protect-rechargeable-electric-toothbrush-matte-white/', 59.99, 89.99, 'nbcMain', '06:48', '', ''],
+];
+
+export const SATURDAY = ROWS.map(([product, brand, category, store, url, price, was, key, time, evidence, condition]) => {
+  const [source, sourceName] = SOURCES[key];
+  return { product, brand, category, store, url: url || source, price, was, source, sourceName, checkedAt: `2026-11-28T${time}:00Z`, evidence, condition };
+});

diff --git a/app/js/render.js b/app/js/render.js
@@ -16,7 +16,15 @@ export function summaryHtml(all, meta) {
     <div class="stat"><b>${stores}</b><span>stores</span></div>
     <div class="stat good"><b>${lows}</b><span>new lows</span></div>
     <div class="stat"><b>${best}%</b><span>deepest cut</span></div>
-    <div class="stat wide"><b>${checkedLabel(times[0]).replace(' UTC', '')}–${checkedLabel(times[times.length - 1]).split(', ')[1]}</b><span>prices read on ${esc(meta.day)}</span></div>`;
+    <div class="stat wide"><b>${span(times[0], times[times.length - 1])}</b><span>prices read on ${esc(meta.day)}</span></div>`;
+}
+
+/** "27 Nov, 07:10–08:20 UTC" within a day, "27 Nov 07:10 – 28 Nov 08:20 UTC" across two. */
+function span(first, last) {
+  const a = checkedLabel(first).replace(' UTC', '');
+  const b = checkedLabel(last);
+  if (a.split(', ')[0] === b.split(', ')[0]) return `${a}–${b.split(', ')[1]}`;
+  return `${a.replace(',', '')} – ${b.replace(',', '')}`;
 }
 
 export function topPicksHtml(all) {

diff --git a/app/js/main.js b/app/js/main.js
@@ -1,13 +1,17 @@
 // Lowball's page logic: load the checked deals, give each its verdict, then keep the list, the chips and the
 // detail panel in step with the search box, the filters, the sort and the URL hash.
 
-import { DEALS, BOARD } from './deals-data.js';
+import { DEALS as FRIDAY, BOARD } from './deals-data.js';
+import { SATURDAY } from './deals-saturday.js';
 import { judgeDeal } from './verdict.js';
 import { applyFilters, facetCounts, defaultState, stateToHash, hashToState } from './filters.js';
 import { summaryHtml, topPicksHtml, chipsHtml, cardHtml, detailHtml } from './render.js';
 import { slug } from './format.js';
 
 const $ = (id) => document.getElementById(id);
+
+/** Friday's board plus the deals found and read on Saturday 28 November. */
+const DEALS = [...FRIDAY, ...SATURDAY];
 
 /** Every deal with its verdict, score, discount, search text and same-product key. */
 const all = DEALS.map((d, i) => {

diff --git a/app/js/deals-data.js b/app/js/deals-data.js
@@ -3,7 +3,7 @@
 // where the price was read (source, sourceName), when (checkedAt, UTC), what the source said about the price's
 // history (evidence) and any condition. Nothing here is estimated: a field no page showed is left empty.
 
-export const BOARD = { day: 'Black Friday, 27 Nov 2026', title: 'Lowball' };
+export const BOARD = { day: 'Black Friday weekend, 27–28 Nov 2026', title: 'Lowball' };
 
 export const DEALS = [
   // ---------------------------------------------------------------- electronics

diff --git a/README.md b/README.md
@@ -4,8 +4,10 @@
 [![rank](https://make.fun/badge/black-friday-deal-finder-01/kacky000/lowball-ledger/rank.svg)](https://make.fun/bounty/black-friday-deal-finder-01/leaderboard?utm_source=github&utm_medium=readme&utm_campaign=black-friday-deal-finder-01)
 [![reward](https://make.fun/badge/black-friday-deal-finder-01/kacky000/lowball-ledger/reward.svg)](https://make.fun/bounty/black-friday-deal-finder-01?utm_source=github&utm_medium=readme&utm_campaign=black-friday-deal-finder-01)
 
-**Lowball** is a static Black Friday & Cyber Monday 2026 deal finder: 105 deals at 18 stores, 9 products priced at 2-3 stores side by side, each read on Black
-Friday (27 Nov 2026) at the store or in a dated roundup that names the store. Every card shows the product, store,
+**Lowball** is a static Black Friday & Cyber Monday 2026 deal finder: 248 deals at 71 stores, 9 products priced at 2-3 stores side by side. 105 were read on Black
+Friday (27 Nov 2026) and 143 more on Saturday 28 Nov (`app/js/deals-saturday.js`), each at the store or in a
+dated roundup that names the store. Where a usual price is the store's own comparison value (Dell, Best Buy TVs)
+the verdict says so instead of calling it a record. Every card shows the product, store,
 sale price, usual price, discount, dollars saved, a link to the product, when the price was read (UTC) and where,
 and a verdict on whether it is really a deal (New low, Strong, Fair, Routine or inflated) with the source's own
 words as evidence.
